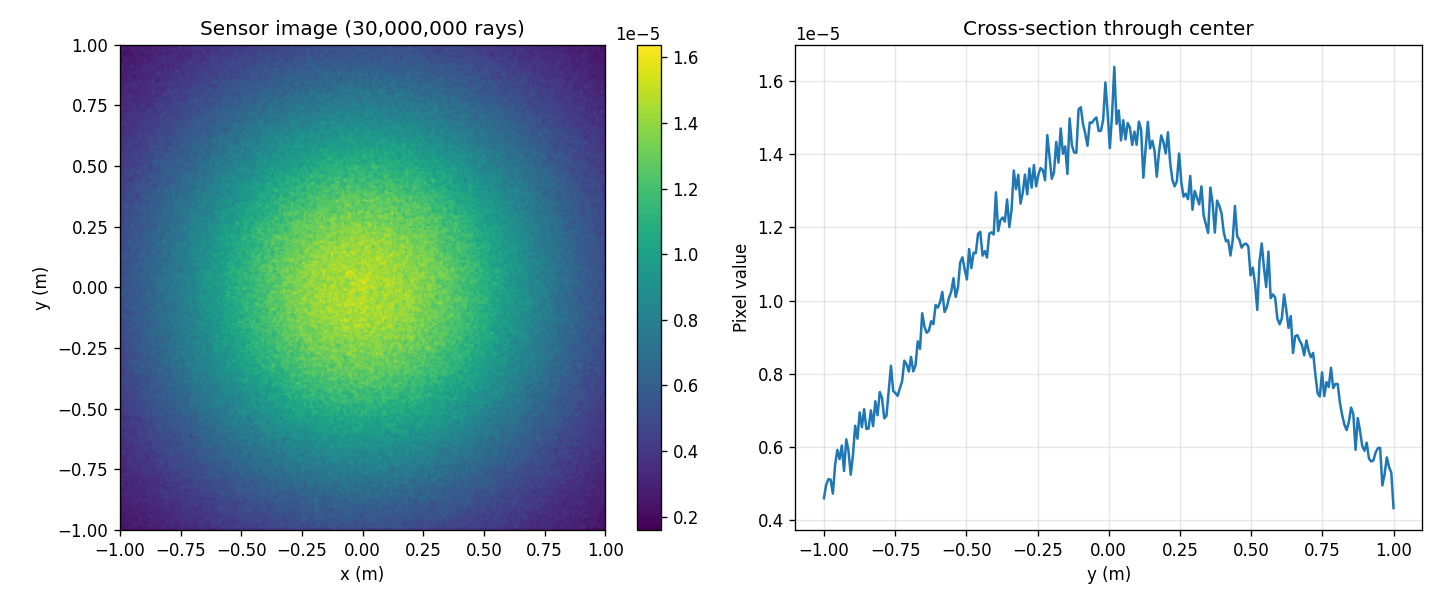
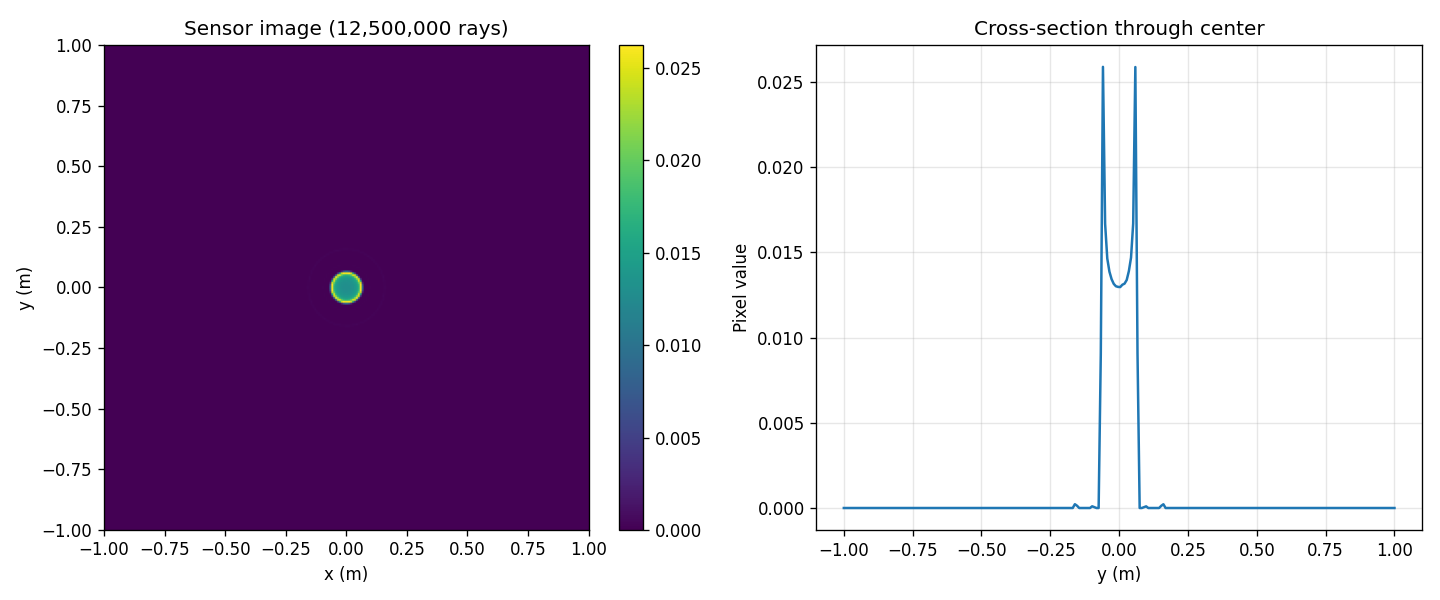
✨ feat: add visualizer kernel

diff --git a/core/mainVisualize.py b/core/mainVisualize.py
@@ -1,18 +1,3 @@
-"""
-test_pipeline.py
-
-Smoke test for the light tracer's generation + accumulation pipeline.
-
-Scene:
-  - Lambertian light source (1m x 1m parallelogram at z=1, emitting toward -z), 1 W total.
-  - Flat sensor (2m x 2m parallelogram at z=0, normal +z), 256x256 pixels.
-
-Expected output:
-  - Sum of sensor pixels close to 1 W (light source's total power).
-  - Peak intensity at the center of the image.
-  - Image roughly symmetric and decreasing toward the edges.
-"""
-
 import numpy as np
 import warp as wp
 import matplotlib.pyplot as plt
@@ -22,6 +7,7 @@ from _generateRays       import _generateRays
 from _intersect          import _intersect
 from _accumulateOnSensor import _accumulateOnSensor
 from _propagate          import _propagate
+from _visualize          import _visualize
 
 
 wp.init()
@@ -68,15 +54,15 @@ asphericLens01.f1 = wp.float32(0.0012) # Height
 asphericLens11 = _Primitive()
 asphericLens11.type = 5 # Asphere
 asphericLens11.materialID = 0 # BK7
-asphericLens11.v0 = wp.vec3f(0., 0., 0.0042) # Local axis origin
-asphericLens11.v1 = wp.vec3f(0., 0., 1.) # (z-axis unit vector in the local frame)
+asphericLens11.v0 = wp.vec3f(0., 0., 0.0158) # Local axis origin
+asphericLens11.v1 = wp.vec3f(0., 0., -0.001) # (z-axis unit vector in the local frame)
 asphericLens11.f0 = wp.float32(8.818197) # Radius
 asphericLens11.f1 = wp.float32(-0.9991715) # Conic constant
 asphericLens11.f2 = wp.float32(8.682167e-5) # 1st coefficient, associated to 4th power
 asphericLens11.f3 = wp.float32(6.3760123e-8) # 2nd coefficient, associated to 6th power
 asphericLens11.f4 = wp.float32(2.4073084e-9) # 3rd coefficient, associated to 8th power
 asphericLens11.f5 = wp.float32(-1.7189021e-11) # 4th coefficient, associated to 10th power
-asphericLens11.f6 = wp.float32(0.0127) # Maximum radius
+asphericLens11.f6 = wp.float32(12.7) # Maximum radius (millimeters)
 
 
 # Biconvex lens
@@ -104,11 +90,12 @@ biconvexLens11.v1         = wp.vec3f(0., 0., +1.)     # Direction of spherical c
 biconvexLens11.f0         = wp.float32(0.0592)        # Radius
 biconvexLens11.f1         = wp.float32(0.447189)      # Angle of the spherical cap: pi(/2) for an (hemi)sphere
 
+#primitivesBuffer = wp.array([asphericLens00, asphericLens01, asphericLens11], dtype=_Primitive)
 primitivesBuffer = wp.array([asphericLens00, asphericLens01, asphericLens11, biconvexLens00, biconvexLens01, biconvexLens11], dtype=_Primitive)
 #primitivesBuffer = wp.array([], dtype=_Primitive)
 
-sensorHalfSize = 0.3
-sensorDist = 0.1
+sensorHalfSize = 0.1
+sensorDist = 0.8
 sensor      = _Sensor()
 sensor.type = wp.int32(0)                  # flat radiometer
 sensor.v0   = wp.vec3f(-sensorHalfSize, -sensorHalfSize, sensorDist)
@@ -123,7 +110,7 @@ sensor.i1   = wp.int32(256)                # resY
 # Buffers allocation
 # ──────────────────────────────────────────────────────────────────────────
 
-N_RAYS = 12_500_000
+N_RAYS = 50_000_000
 RES_X  = int(sensor.i0)
 RES_Y  = int(sensor.i1)
 
@@ -131,59 +118,40 @@ rayBuffer          = wp.zeros(N_RAYS, dtype=_Ray)
 intersectionBuffer = wp.zeros(N_RAYS, dtype=_Intersection)
 sensorBuffer       = wp.zeros((RES_X, RES_Y), dtype=wp.float32)
 
-# Note: intersectionBuffer is zero-initialized, so intersection.t = 0.0
-# The visibility test in _accumulateOnSensor is:
-#     if intersection.t > 0.0 and intersection.t < tSensor: return
-# Since 0.0 is not > 0.0, rays are not rejected.
-
-"""
 # ──────────────────────────────────────────────────────────────────────────
-# Pipeline execution
+# Visualization sensor: top-down view of the optical bench
+# Plane: y = 0 (so we look at the xz plane)
+# u axis = x (horizontal in image)
+# v axis = z (vertical in image, = optical axis)
 # ──────────────────────────────────────────────────────────────────────────
 
-INPUT_SEED = wp.int32(42)
-FRAME_ID   = wp.int32(0)
+VIZ_X_MIN, VIZ_X_MAX = -0.04, 0.04        # 8 cm horizontal extent
+VIZ_Z_MIN, VIZ_Z_MAX = -0.01, 0.12        # 13 cm along the optical axis
+VIZ_RES_X = 512
+VIZ_RES_Z = 832
 
-print("Generating rays...")
-wp.launch(
-    _generateRays,
-    dim    = N_RAYS,
-    inputs = [lightSourceArray, INPUT_SEED, FRAME_ID, rayBuffer],
-)
+# Vertices of the visualization plane, in the y=0 plane:
+# Looking from +y toward -y, we see x growing rightward and z growing upward.
+vizSensor      = _Sensor()
+vizSensor.type = wp.int32(0)
+vizSensor.v0   = wp.vec3f(VIZ_X_MIN, 0.0, VIZ_Z_MIN)   # bottom-left
+vizSensor.v1   = wp.vec3f(VIZ_X_MAX, 0.0, VIZ_Z_MIN)   # bottom-right → defines u (= x)
+vizSensor.v2   = wp.vec3f(VIZ_X_MAX, 0.0, VIZ_Z_MAX)   # top-right
+vizSensor.v3   = wp.vec3f(VIZ_X_MIN, 0.0, VIZ_Z_MAX)   # top-left    → defines v (= z)
+vizSensor.i0   = wp.int32(VIZ_RES_X)
+vizSensor.i1   = wp.int32(VIZ_RES_Z)
 
-# Diagnose ray generation
-rays_np = rayBuffer.numpy()
+vizBuffer = wp.zeros((VIZ_RES_X, VIZ_RES_Z), dtype=wp.float32)
 
-print("\n─── Ray diagnostics ────────────────────────────────────────────────")
-print(f"  Origins x range  : [{rays_np['origin'][:,0].min():.4f}, {rays_np['origin'][:,0].max():.4f}]")
-print(f"  Origins y range  : [{rays_np['origin'][:,1].min():.4f}, {rays_np['origin'][:,1].max():.4f}]")
-print(f"  Origins z range  : [{rays_np['origin'][:,2].min():.4f}, {rays_np['origin'][:,2].max():.4f}]")
-print(f"  Directions x     : [{rays_np['direction'][:,0].min():.4f}, {rays_np['direction'][:,0].max():.4f}]")
-print(f"  Directions y     : [{rays_np['direction'][:,1].min():.4f}, {rays_np['direction'][:,1].max():.4f}]")
-print(f"  Directions z     : [{rays_np['direction'][:,2].min():.4f}, {rays_np['direction'][:,2].max():.4f}]")
-print(f"  Throughput       : [{rays_np['throughput'].min():.6e}, {rays_np['throughput'].max():.6e}]")
-print(f"  NaN in origin    : {np.isnan(rays_np['origin']).any()}")
-print(f"  NaN in direction : {np.isnan(rays_np['direction']).any()}")
-print(f"  NaN in throughput: {np.isnan(rays_np['throughput']).any()}")
-print(f"  Direction norms  : [{np.linalg.norm(rays_np['direction'], axis=1).min():.4f}, {np.linalg.norm(rays_np['direction'], axis=1).max():.4f}]")
 
-#print("Accumulating on sensor...")
-wp.launch(
-    _accumulateOnSensor,
-    dim    = N_RAYS,
-    inputs = [rayBuffer, intersectionBuffer, sensor, sensorBuffer],
-)
-
-wp.synchronize()
-"""
 # ──────────────────────────────────────────────────────────────────────────
-# Pipeline execution: wavefront path tracing
+# Pipeline execution with visualization
 # ──────────────────────────────────────────────────────────────────────────
 
-INPUT_SEED   = wp.int32(42)
-FRAME_ID     = wp.int32(0)
-MAX_BOUNCES  = 5
-NB_PRIMITIVES = wp.int32(len(primitivesBuffer))   # number of primitives in the scene
+INPUT_SEED    = wp.int32(42)
+FRAME_ID      = wp.int32(0)
+MAX_BOUNCES   = 5
+NB_PRIMITIVES = wp.int32(len(primitivesBuffer))
 
 print(f"Generating {N_RAYS:,} rays from light source...")
 wp.launch(
@@ -202,14 +170,21 @@ for bounce in range(MAX_BOUNCES):
         inputs = [rayBuffer, primitivesBuffer, NB_PRIMITIVES, intersectionBuffer],
     )
 
-    # 2. Accumulate on sensor (rays passing through sensor plane this bounce)
+    # 2. Visualize ray paths for this bounce (BEFORE propagating)
+    wp.launch(
+        _visualize,
+        dim    = N_RAYS,
+        inputs = [rayBuffer, intersectionBuffer, vizSensor, vizBuffer],
+    )
+
+    # 3. Accumulate on the physical sensor
     wp.launch(
         _accumulateOnSensor,
         dim    = N_RAYS,
         inputs = [rayBuffer, intersectionBuffer, sensor, sensorBuffer],
     )
 
-    # 3. Propagate: reflect/refract at intersection, or kill ray
+    # 4. Propagate
     wp.launch(
         _propagate,
         dim    = N_RAYS,
@@ -228,46 +203,43 @@ print("Pipeline complete.")
 
 
 # ──────────────────────────────────────────────────────────────────────────
-# Sanity checks
+# Display the side view
 # ──────────────────────────────────────────────────────────────────────────
 
-image = sensorBuffer.numpy()
-"""
-total_flux = image.sum()
-peak_value = image.max()
-peak_pos   = np.unravel_index(np.argmax(image), image.shape)
+vizImage    = vizBuffer.numpy()
+sensorImage = sensorBuffer.numpy()
 
-print()
-print("─── Sanity checks ──────────────────────────────────────────────────")
-print(f"  Total flux on sensor : {total_flux:.4f} W  (expected ~0.85-1.0)")
-print(f"  Peak pixel value     : {peak_value:.6f}")
-print(f"  Peak position (i,j)  : {peak_pos}  (expected near ({RES_X//2}, {RES_Y//2}))")
-print(f"  Image shape          : {image.shape}")
-print(f"  Min / Mean / Max     : {image.min():.6e} / {image.mean():.6e} / {image.max():.6e}")
-"""
-# ──────────────────────────────────────────────────────────────────────────
-# Visualization
-# ──────────────────────────────────────────────────────────────────────────
+fig, axes = plt.subplots(1, 2, figsize=(18, 9))
 
-fig, (ax1, ax2) = plt.subplots(1, 2, figsize=(12, 5))
+# Side view (xz plane): rays propagating through the optical system
+# log scale to see both bright and dim rays
+imViz = axes[0].imshow(
+    np.log1p(vizImage.T),                     # transpose: x horizontal, z vertical
+    cmap="inferno",
+    origin="lower",
+    extent=[VIZ_X_MIN, VIZ_X_MAX, VIZ_Z_MIN, VIZ_Z_MAX],
+    aspect="equal",                            # keep physical proportions
+)
+axes[0].set_title(f"Ray paths in the xz plane ({N_RAYS:,} rays, {MAX_BOUNCES} bounces, log scale)")
+axes[0].set_xlabel("x (m)")
+axes[0].set_ylabel("z (m) — optical axis")
+axes[0].axhline(0.0, color="cyan", lw=0.5, alpha=0.5)   # source plane
+axes[0].axhline(0.1, color="lime", lw=0.5, alpha=0.5)   # sensor plane
+plt.colorbar(imViz, ax=axes[0])
 
-# 2D image (transpose to get x horizontal, y vertical)
-im = ax1.imshow(image.T, cmap="viridis", origin="lower",
-                extent=[-1.0, 1.0, -1.0, 1.0])
-ax1.set_title(f"Sensor image ({N_RAYS:,} rays)")
-ax1.set_xlabel("x (m)")
-ax1.set_ylabel("y (m)")
-plt.colorbar(im, ax=ax1)
-
-# Horizontal cross-section through center
-center_row = image[RES_X // 2, :]
-ax2.plot(np.linspace(-1.0, 1.0, RES_Y), center_row)
-ax2.set_title("Cross-section through center")
-ax2.set_xlabel("y (m)")
-ax2.set_ylabel("Pixel value")
-ax2.grid(True, alpha=0.3)
+# Top-down sensor image (xy plane at z = 0.1)
+imSensor = axes[1].imshow(
+    sensorImage.T,
+    cmap="viridis",
+    origin="lower",
+    extent=[-sensorHalfSize, sensorHalfSize, -sensorHalfSize, sensorHalfSize],
+)
+axes[1].set_title(f"Sensor image at z = {sensorDist} m")
+axes[1].set_xlabel("x (m)")
+axes[1].set_ylabel("y (m)")
+plt.colorbar(imSensor, ax=axes[1])
 
 plt.tight_layout()
-plt.savefig("test_pipeline.png", dpi=120)
+plt.savefig("debug_pipeline.png", dpi=120)
 plt.show()
-print("\n  Image saved to: test_pipeline.png")
+print("\n  Image saved to: debug_pipeline.png")

diff --git a/core/_visualize.py b/core/_visualize.py
@@ -1,0 +1,74 @@
+import warp as wp
+
+from _structures import _Ray, _Intersection, _Sensor
+
+@wp.kernel
+def _visualize(
+    raysBuffer         : wp.array(dtype=_Ray,           ndim=1),
+    intersectionsBuffer: wp.array(dtype=_Intersection,  ndim=1),
+    sensor             : _Sensor,
+    sensorBuffer       : wp.array(dtype=wp.float32,   ndim=2),
+):
+    ID = wp.tid()
+    
+    ray = raysBuffer[ID]
+    if not ray.isAlive:
+        return
+    
+    intersection = intersectionsBuffer[ID]
+    if intersection.t <= 0.0:
+        return
+    
+    p0 = ray.origin
+    p1 = ray.origin + intersection.t * ray.direction
+    
+    # ── Build the sensor's local frame ──
+    sensorU      = sensor.v1 - sensor.v0
+    sensorV      = sensor.v3 - sensor.v0
+    sensorWidth  = wp.length(sensorU)
+    sensorHeight = wp.length(sensorV)
+    invWidth2    = 1.0 / (sensorWidth  * sensorWidth)
+    invHeight2   = 1.0 / (sensorHeight * sensorHeight)
+    
+    # ── Project both endpoints onto sensor plane ──
+    relP0 = p0 - sensor.v0
+    u0    = wp.dot(relP0, sensorU) * invWidth2
+    v0    = wp.dot(relP0, sensorV) * invHeight2
+    
+    relP1 = p1 - sensor.v0
+    u1    = wp.dot(relP1, sensorU) * invWidth2
+    v1    = wp.dot(relP1, sensorV) * invHeight2
+    
+    # ── Convert to pixel coordinates ──
+    resX = wp.float32(sensorBuffer.shape[0])
+    resY = wp.float32(sensorBuffer.shape[1])
+    
+    x0 = u0 * resX - 0.5
+    y0 = v0 * resY - 0.5
+    x1 = u1 * resX - 0.5
+    y1 = v1 * resY - 0.5
+    
+    # ── DDA-style rasterization ──
+    dx = x1 - x0
+    dy = y1 - y0
+    
+    # Number of steps = max axial distance in pixels (+1)
+    nSteps = wp.int32(wp.max(wp.abs(dx), wp.abs(dy)) + 1.0)
+    
+    # Cap for GPU performance
+    MAX_STEPS = wp.int32(512)
+    if nSteps > MAX_STEPS:
+        nSteps = MAX_STEPS
+    
+    invNSteps = 1.0 / wp.float32(nSteps)
+    
+    for step in range(nSteps):
+        t = wp.float32(step) * invNSteps
+        x = x0 + t * dx
+        y = y0 + t * dy
+        
+        xi = wp.int32(wp.round(x))
+        yi = wp.int32(wp.round(y))
+        
+        if xi >= 0 and xi < sensorBuffer.shape[0] and yi >= 0 and yi < sensorBuffer.shape[1]:
+            wp.atomic_add(sensorBuffer, xi, yi, wp.float32(1.0))
